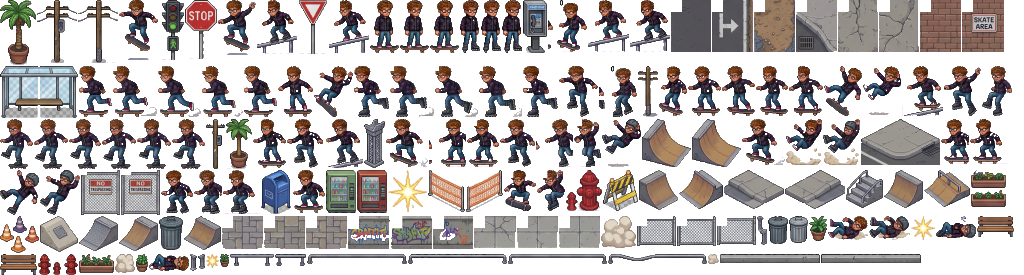
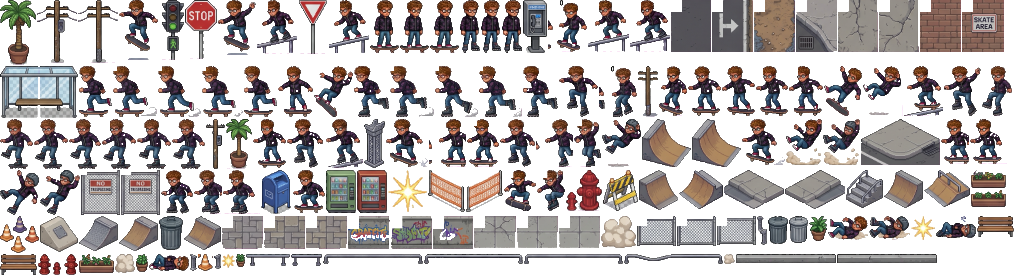
Correctifs retour visuel : animation de saut en boucle, cône groupé
Deux points signalés en testant P3 dans le vrai navigateur.

1. L'animation en vol (ollie, flip, no-comply, manual) rebouclait sans fin
   entre ses deux dernières frames tant que le rider restait en l'air —
   choix fait en P2 pour combler l'écart entre la durée de l'animation
   (0,28 s à 18 fps) et celle du saut physique (jusqu'à 1 s pour un boost).
   À l'œil, ça ressemblait à un tremblement plutôt qu'à un saut. Le §5
   demande explicitement une animation « non-loop » : la séquence se joue
   maintenant une fois, linéairement, puis le rider reste posé sur sa
   dernière pose aérienne jusqu'au contact — plus de va-et-vient.

2. L'obstacle « cone » utilisait connector.0, qui montre un groupe de 4
   cônes (Gemini les a dessinés en cluster dans la même case). Isolé le
   plus net des quatre (composantes connexes relevées à la main) en une
   nouvelle frame dédiée — toujours dérivée de l'asset fourni (C6), juste
   recadrée pour servir un obstacle unique plutôt que la case complète.
   tools/slice.mjs porte désormais une section « retouches ponctuelles »,
   documentée, pour ce genre de recadrage après découpe générique.

Deux limites signalées mais non corrigées, par contrainte d'assets (C6,
aucun sprite hors de ceux fournis) plutôt que par choix :

- Le curb (obstacle bas) et les quarter pipes sont dessinés en perspective
  isométrique dans les planches sources, alors que le personnage et les
  décors « debout » (poubelles, bancs, hydrant, distributeurs) sont en vue
[…]

diff --git a/dist/bundle.js b/dist/bundle.js
@@ -1405,7 +1405,7 @@ const __default = {
         -12
       ],
       "rect": [
-        230,
+        246,
         254,
         44,
         12
@@ -1420,7 +1420,7 @@ const __default = {
         -12
       ],
       "rect": [
-        275,
+        291,
         254,
         31,
         12
@@ -1540,7 +1540,7 @@ const __default = {
         -9
       ],
       "rect": [
-        720,
+        736,
         254,
         100,
         9
@@ -1555,7 +1555,7 @@ const __default = {
         -10
       ],
       "rect": [
-        307,
+        323,
         254,
         100,
         10
@@ -1570,7 +1570,7 @@ const __default = {
         -10
       ],
       "rect": [
-        408,
+        424,
         254,
         99,
         10
@@ -1585,7 +1585,7 @@ const __default = {
         -9
       ],
       "rect": [
-        821,
+        837,
         254,
         100,
         9
@@ -1600,7 +1600,7 @@ const __default = {
         -10
       ],
       "rect": [
-        508,
+        524,
         254,
         99,
         10
@@ -1615,7 +1615,7 @@ const __default = {
         -10
       ],
       "rect": [
-        608,
+        624,
         254,
         99,
         10
@@ -1720,7 +1720,7 @@ const __default = {
         -13
       ],
       "rect": [
-        220,
+        236,
         254,
         9,
         13
@@ -1975,7 +1975,7 @@ const __default = {
         -14
       ],
       "rect": [
-        206,
+        222,
         254,
         13,
         14
@@ -2020,7 +2020,7 @@ const __default = {
         -10
       ],
       "rect": [
-        708,
+        724,
         254,
         11,
         10
@@ -2140,7 +2140,7 @@ const __default = {
         -15
       ],
       "rect": [
-        198,
+        214,
         254,
         7,
         15
@@ -2609,6 +2609,21 @@ const __default = {
         216,
         37,
         34
+      ]
+    },
+    "cone": {
+      "file": "sprites/decor/cone.png",
+      "w": 15,
+      "h": 17,
+      "offset": [
+        -8,
+        -17
+      ],
+      "rect": [
+        198,
+        254,
+        15,
+        17
       ]
     }
   },
@@ -3452,9 +3467,13 @@ function createPlayer({ rider = 'skate', direction = 1 } = {}) {
     const fps = FPS[p.animSaut] || 16;
     const iPop = Math.floor(p.tempsAnim * fps);
     if (iPop < ph.pop.length) return ph.pop[iPop];
-    // Le pop est joué, on boucle sur les frames aériennes jusqu'au contact.
-    const iAir = iPop - ph.pop.length;
-    return ph.air[iAir % ph.air.length];
+    // §5 : animation « non-loop ». Le pop puis les frames aériennes se jouent
+    // une fois, linéairement, puis le rider reste posé sur la dernière pose
+    // aérienne jusqu'au contact — un modulo ici ferait battre les bras en
+    // boucle pendant tout le vol (repéré à l'œil : ça ressemblait à un
+    // tremblement, pas à un saut qui monte puis plane).
+    const iAir = Math.min(iPop - ph.pop.length, ph.air.length - 1);
+    return ph.air[iAir];
   }
 
   function indexCrash() {
@@ -3810,7 +3829,7 @@ const Family = {
 const ENTITIES = {
   // Solide bas — Ollie suffit.
   curb: { family: Family.LOW, frame: 'curb.0', hitbox: { w: 44, h: 14 } },
-  cone: { family: Family.LOW, frame: 'connector.0', hitbox: { w: 26, h: 18 } },
+  cone: { family: Family.LOW, frame: 'cone', hitbox: { w: 15, h: 17 } },
   hydrant: { family: Family.LOW, frame: 'street.2', hitbox: { w: 22, h: 22 } },
 
   // Solide haut — Flip ou Boost.

diff --git a/assets/atlas.js b/assets/atlas.js
@@ -1125,7 +1125,7 @@ export default {
         -12
       ],
       "rect": [
-        230,
+        246,
         254,
         44,
         12
@@ -1140,7 +1140,7 @@ export default {
         -12
       ],
       "rect": [
-        275,
+        291,
         254,
         31,
         12
@@ -1260,7 +1260,7 @@ export default {
         -9
       ],
       "rect": [
-        720,
+        736,
         254,
         100,
         9
@@ -1275,7 +1275,7 @@ export default {
         -10
       ],
       "rect": [
-        307,
+        323,
         254,
         100,
         10
@@ -1290,7 +1290,7 @@ export default {
         -10
       ],
       "rect": [
-        408,
+        424,
         254,
         99,
         10
@@ -1305,7 +1305,7 @@ export default {
         -9
       ],
       "rect": [
-        821,
+        837,
         254,
         100,
         9
@@ -1320,7 +1320,7 @@ export default {
         -10
       ],
       "rect": [
-        508,
+        524,
         254,
         99,
         10
@@ -1335,7 +1335,7 @@ export default {
         -10
       ],
       "rect": [
-        608,
+        624,
         254,
         99,
         10
@@ -1440,7 +1440,7 @@ export default {
         -13
       ],
       "rect": [
-        220,
+        236,
         254,
         9,
         13
@@ -1695,7 +1695,7 @@ export default {
         -14
       ],
       "rect": [
-        206,
+        222,
         254,
         13,
         14
@@ -1740,7 +1740,7 @@ export default {
         -10
       ],
       "rect": [
-        708,
+        724,
         254,
         11,
         10
@@ -1860,7 +1860,7 @@ export default {
         -15
       ],
       "rect": [
-        198,
+        214,
         254,
         7,
         15
@@ -2329,6 +2329,21 @@ export default {
         216,
         37,
         34
+      ]
+    },
+    "cone": {
+      "file": "sprites/decor/cone.png",
+      "w": 15,
+      "h": 17,
+      "offset": [
+        -8,
+        -17
+      ],
+      "rect": [
+        198,
+        254,
+        15,
+        17
       ]
     }
   },

diff --git a/src/game/player.js b/src/game/player.js
@@ -288,9 +288,13 @@ export function createPlayer({ rider = 'skate', direction = 1 } = {}) {
     const fps = FPS[p.animSaut] || 16;
     const iPop = Math.floor(p.tempsAnim * fps);
     if (iPop < ph.pop.length) return ph.pop[iPop];
-    // Le pop est joué, on boucle sur les frames aériennes jusqu'au contact.
-    const iAir = iPop - ph.pop.length;
-    return ph.air[iAir % ph.air.length];
+    // §5 : animation « non-loop ». Le pop puis les frames aériennes se jouent
+    // une fois, linéairement, puis le rider reste posé sur la dernière pose
+    // aérienne jusqu'au contact — un modulo ici ferait battre les bras en
+    // boucle pendant tout le vol (repéré à l'œil : ça ressemblait à un
+    // tremblement, pas à un saut qui monte puis plane).
+    const iAir = Math.min(iPop - ph.pop.length, ph.air.length - 1);
+    return ph.air[iAir];
   }
 
   function indexCrash() {

diff --git a/src/data/entities.js b/src/data/entities.js
@@ -30,7 +30,7 @@ export const Family = {
 export const ENTITIES = {
   // Solide bas — Ollie suffit.
   curb: { family: Family.LOW, frame: 'curb.0', hitbox: { w: 44, h: 14 } },
-  cone: { family: Family.LOW, frame: 'connector.0', hitbox: { w: 26, h: 18 } },
+  cone: { family: Family.LOW, frame: 'cone', hitbox: { w: 15, h: 17 } },
   hydrant: { family: Family.LOW, frame: 'street.2', hitbox: { w: 22, h: 22 } },
 
   // Solide haut — Flip ou Boost.
